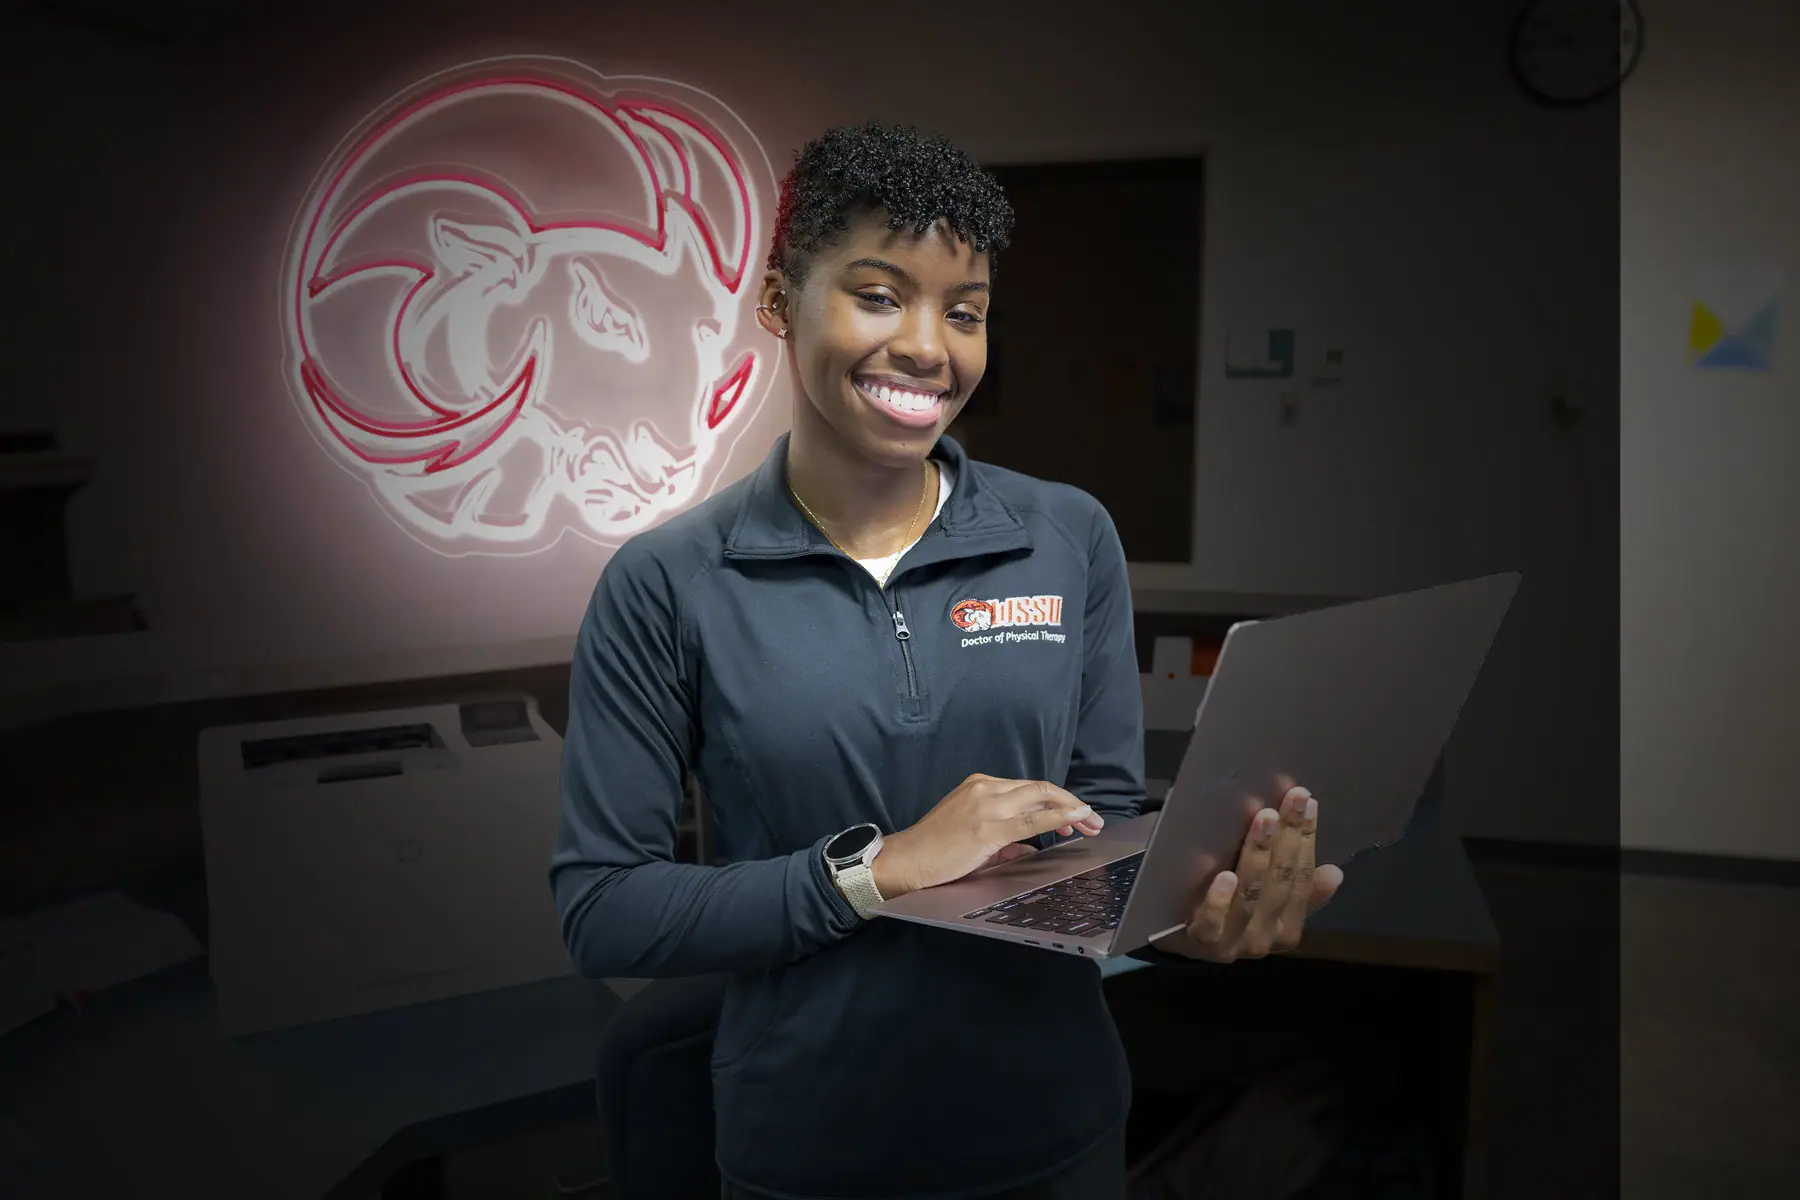
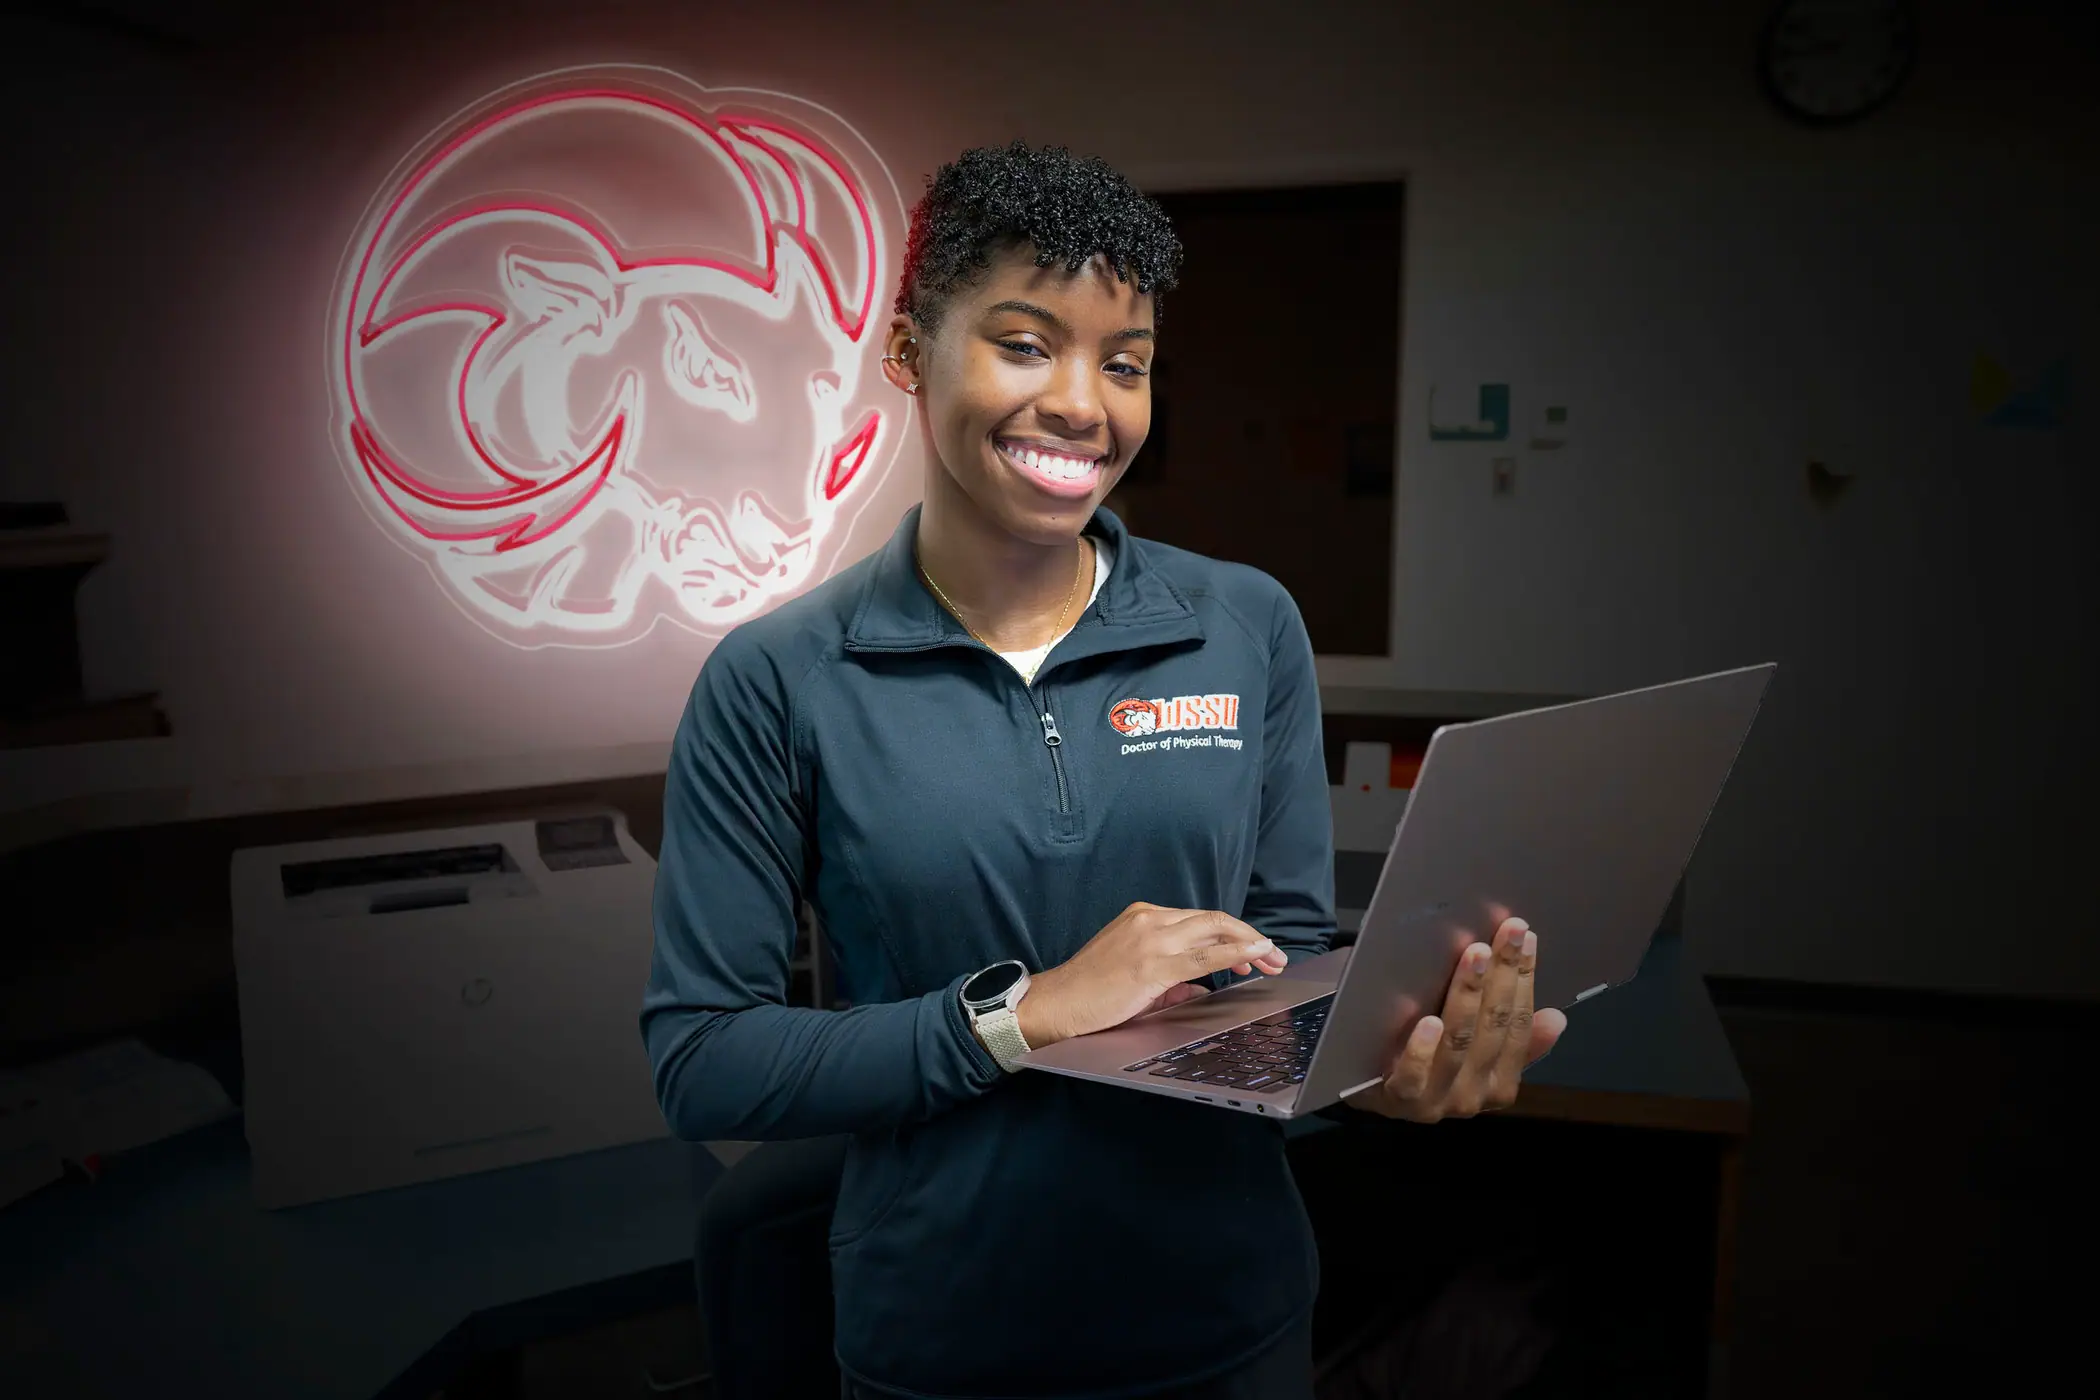
DPT page updates

diff --git a/src/lib/scripts/programs.js b/src/lib/scripts/programs.js
@@ -537,8 +537,8 @@ export const programs = [
         titleOverlay: "Doctor of Physical Therapy",
         sectionColor: "green",
         heroReverse: false,
-        promoHeader: "700+ APPLICATIONS. 30 SEATS. ARE YOU ONE?",
-        promoBoxMainCopy: "Our highly competitive program is one of the most affordable in the nation, combining innovative simulation technology with hands-on community clinic experience to prepare you for autonomous practice.",
+        promoHeader: "ONLY HBCU WITH AN ACCREDITED PT RESIDENCY",
+        promoBoxMainCopy: "Our program is one of the most affordable in the nation, combining innovative simulation technology with hands-on community clinic experience to prepare you for autonomous practice.",
         
         leadFormHeader: "Let's Get You Started",
         leadFormCopy: "Tell us a little about yourself and our graduate team will reach out soon.",
@@ -581,10 +581,6 @@ export const programs = [
 			{
 				value: '100%',
 				description: 'Employment Rate'
-			},
-			{
-				value: 'Only',
-				description: 'HBCU in the Nation with a Residency Program'
 			}
 		],
         

diff --git a/src/styles.css b/src/styles.css
@@ -12,7 +12,7 @@
   --header-height: 190px;
   scroll-padding-top: var(--header-height);
   --base-font-size: clamp(15px, 2vw, 28px);
-  --border-size: clamp(2px, .5vw, 6px);
+  --border-size: clamp(2.5px, .3vw, 4px);
   --red-border: var(--border-size) solid var(--red);
 }
   
@@ -457,8 +457,8 @@ p.white {
     align-items: center;
     justify-content: center;
     padding: 13px 44px;
-    border: 3px solid var(--red);
-    border-radius: 1.3vw;
+    border: var(--border-size) solid var(--red);
+    border-radius: clamp(8px, 1vw, 20px);
     background: white;
     cursor: pointer;
     font-family: "Tilt Neon", sans-serif;

diff --git a/src/lib/components/RealWorldApplication.svelte b/src/lib/components/RealWorldApplication.svelte
@@ -42,7 +42,7 @@
   left: 0px;
   right: 0px;
   top: 0px;
-  height: 100px;
+  height: 400px;
   pointer-events: none;
 }
 
